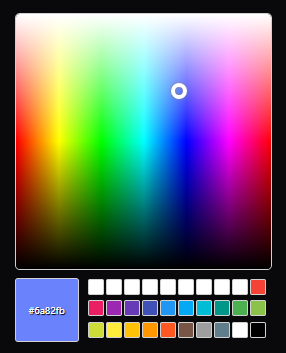
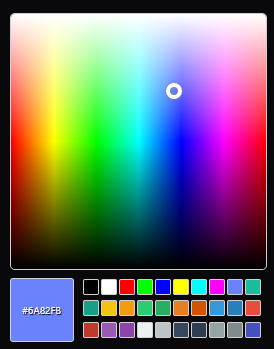
Change color panel & Update version

Changed region(s): [[0.0292, 0.0287, 0.9927, 1.0], [0.0876, 0.8596, 0.2336, 0.9169], [0.5839, 0.2292, 0.6715, 0.2865]]

diff --git a/src/lib/easy-color-picker.svelte b/src/lib/easy-color-picker.svelte
@@ -11,33 +11,8 @@
 	import { onMount, createEventDispatcher } from 'svelte';
 	import { browser } from '$app/environment';
 
-	let defaultcolorPalettes: string[] = [
-		'#f44336',
-		'#E91E63',
-		'#9c27b0',
-		'#673ab7',
-		'#3f51b5',
-		'#2196F3',
-		'#03a9f4',
-		'#00bcd4',
-		'#009688',
-		'#4caf50',
-		'#8bc34a',
-		'#cddc39',
-		'#ffeb3b',
-		'#ffc107',
-		'#ff9800',
-		'#ff5722',
-		'#795548',
-		'#9e9e9e',
-		'#607d8b',
-		'#ffffff',
-		'#000000'
-	];
-
 	export let color = '#0000ff';
-	export let copyString = 'Copied!';
-	export let colorPalettes: string[] = [];
+	export let copyString = 'Copié !';
 
 	const dispatch = createEventDispatcher();
 	let canvas: HTMLCanvasElement;
@@ -47,18 +22,15 @@
 	let rgba: { r: number; g: number; b: number; a: number } = { r: 255, g: 255, b: 255, a: 1 };
 	let oldColor: string;
 	let isCopied: boolean = false;
-	let palettes: string[] = [];
+	let palettes: string[] = ["#000000","#ffffff","#ff0000","#00ff00","#0000ff","#ffff00","#00ffff","#ff00ff","#6a82fb", "#1abc9c", "#16a085", "#f1c40f", "#f39c12", "#2ecc71", "#27ae60", "#e67e22", "#d35400", "#3498db", "#2980b9", "#e74c3c", "#c0392b", "#9b59b6", "#8e44ad", "#ecf0f1", "#bdc3c7", "#34495e", "#2c3e50", "#95a5a6", "#7f8c8d", "#454fbf"];
 	let offscreenGradientCanvas:any;
 
 	const KEY_COLORS = 'easy.colors.values';
-
-	$: calculatepalettes(palettes);
 
 	export function save(color: string) {
 		if (isValidHexColor(color)) {
 			setColor(color);
 			saveLocalColor(color);
-			calculatepalettes();
 			selectColor();
 		}
 	}
@@ -69,21 +41,6 @@
 		drawColor();
 		setColor(color);
 	});
-
-	function calculatepalettes(_?: string[]) {
-		palettes = [...colorPalettes.slice(0, 4), ...defaultcolorPalettes];
-		let colors: string[] = getLocalColors();
-		let array: string[] = [];
-		for (let i = 0; i < 30 - palettes.length; i++) {
-			let c = colors[i];
-			if (c) {
-				array.push(c);
-			} else {
-				array.push('#ffffff');
-			}
-		}
-		palettes = [...array, ...palettes];
-	}
 
 	function saveLocalColor(color: string) {
 		if (browser && localStorage && isValidHexColor(color)) {

diff --git a/src/routes/+page.svelte b/src/routes/+page.svelte
@@ -9,6 +9,5 @@
 
 <EasyColorPicker
 	on:color={handleColorChange}
-	rgbaFormat={false}
-	colorPalletes={['#f57f17', '#00c853', '#00bfa5', '#2962ff']}
+	colorPalettes={['#f57f17', '#00c853', '#00bfa5', '#2962ff']}
 />
